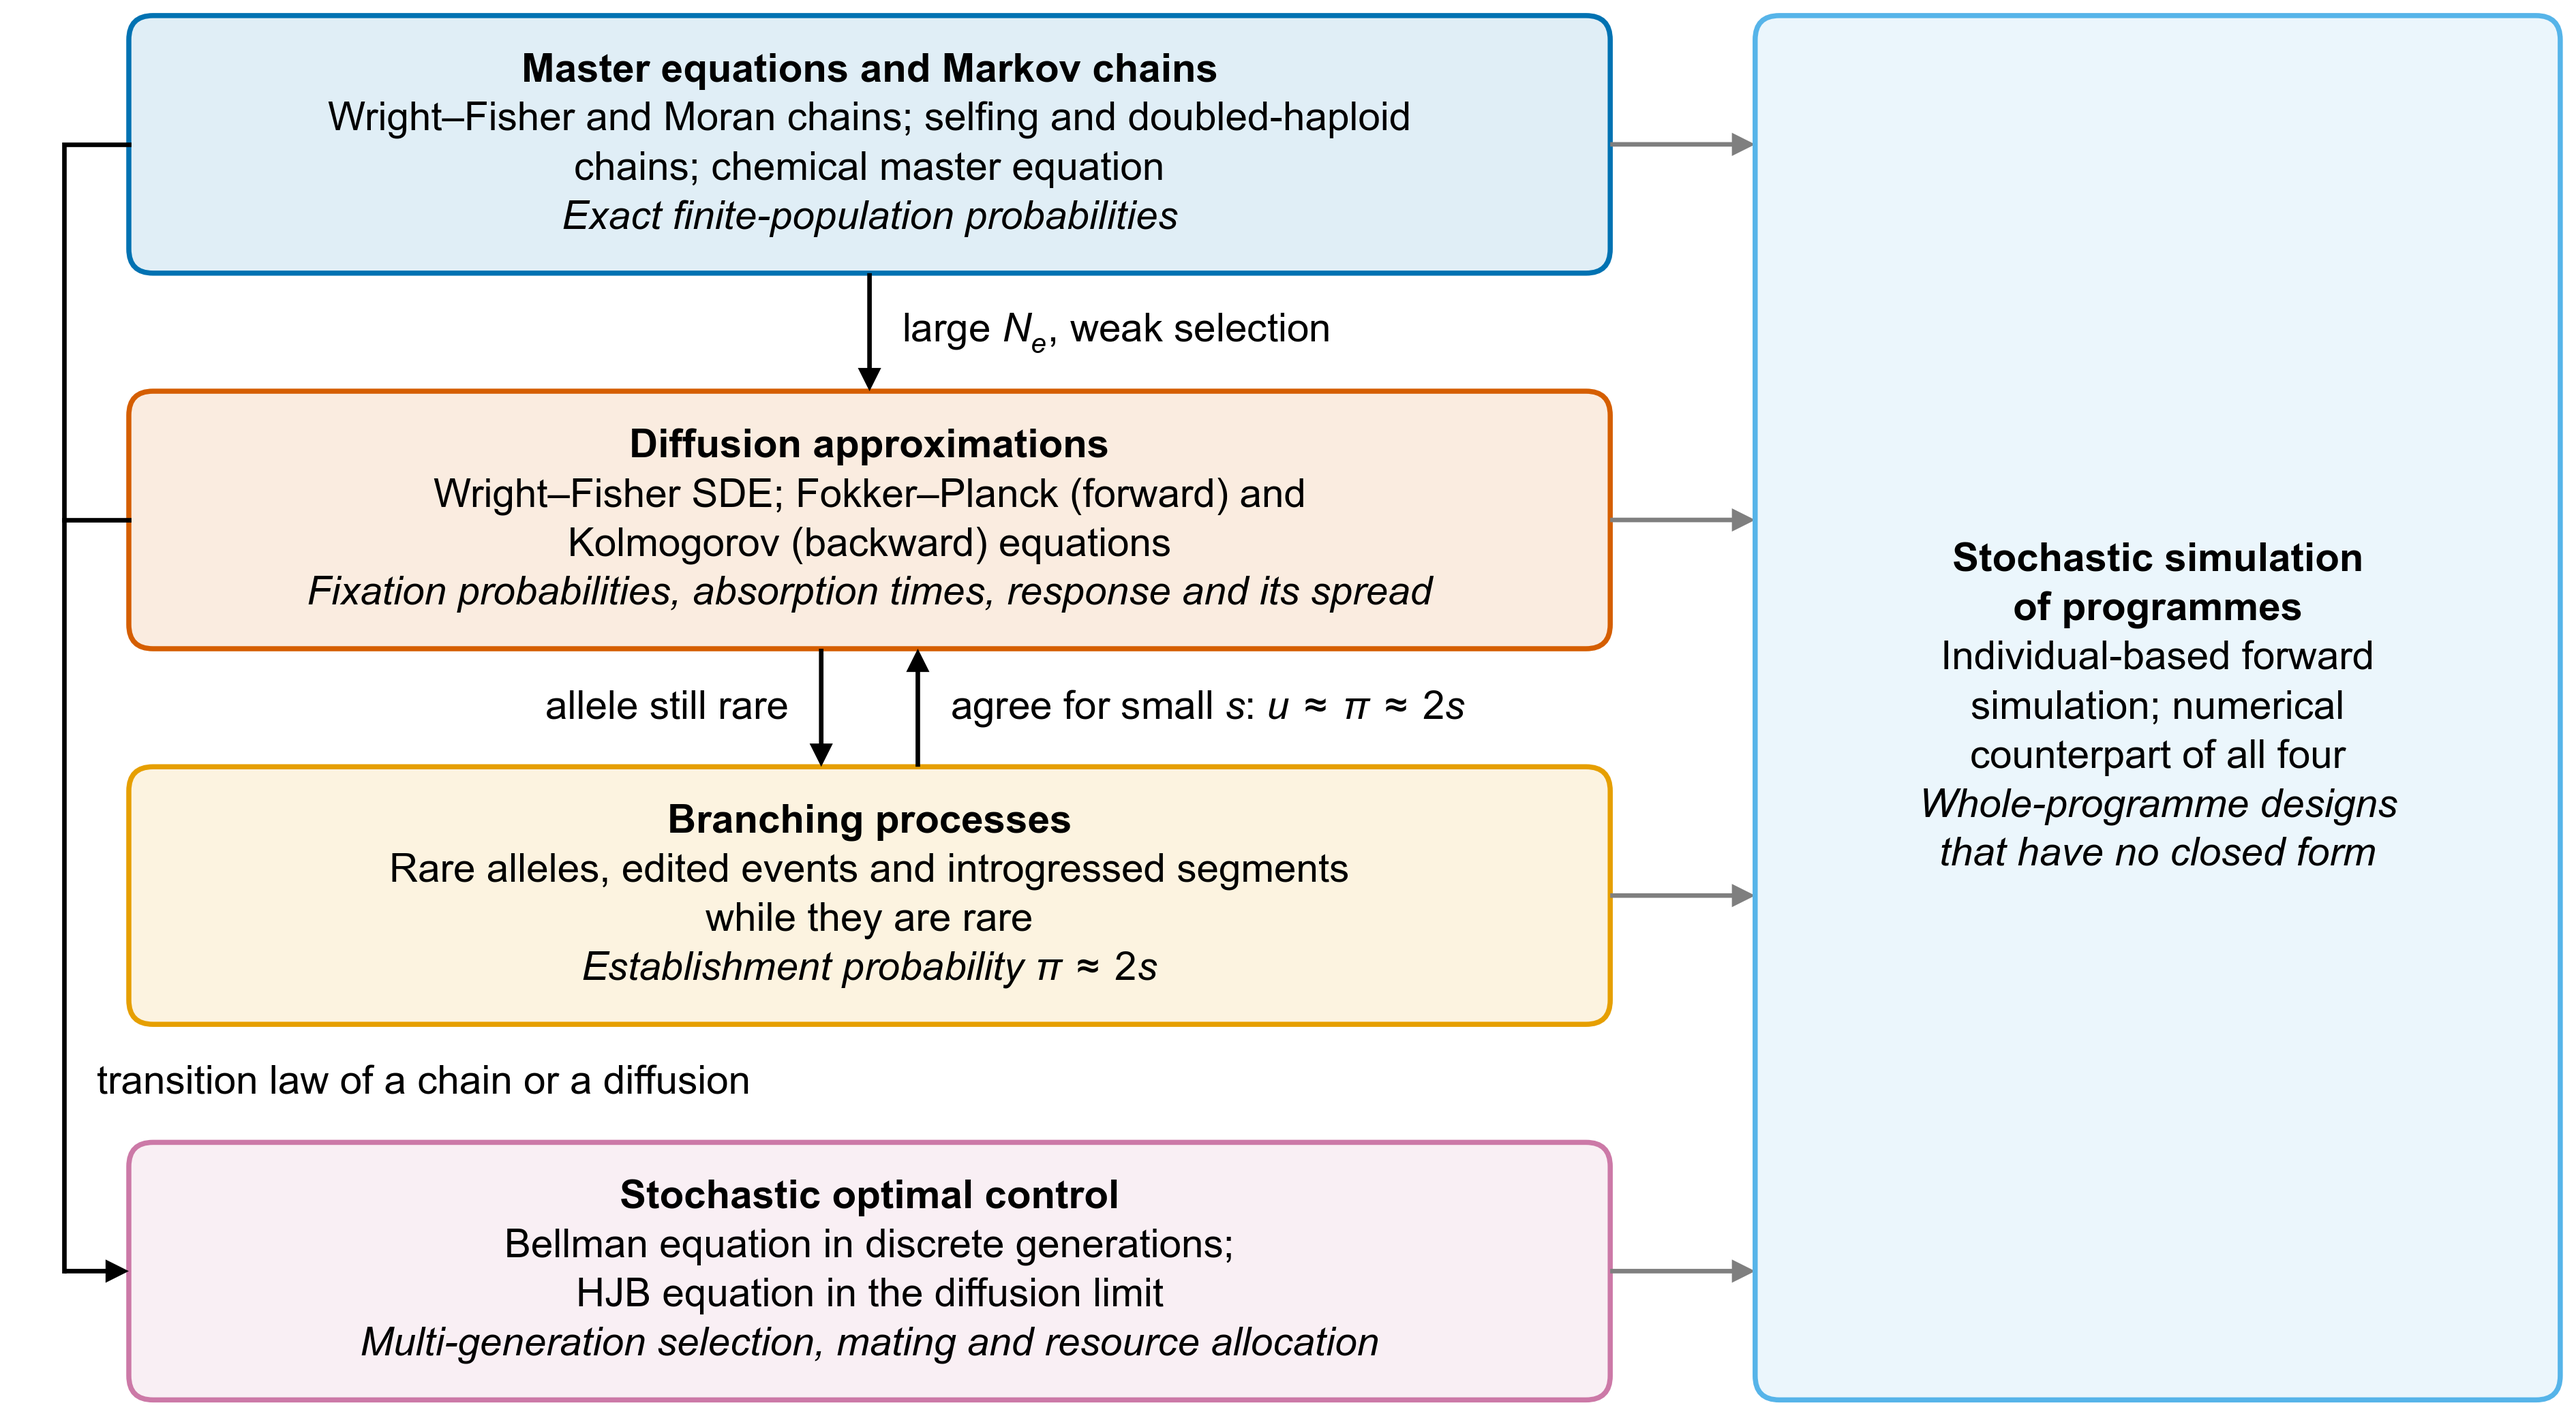
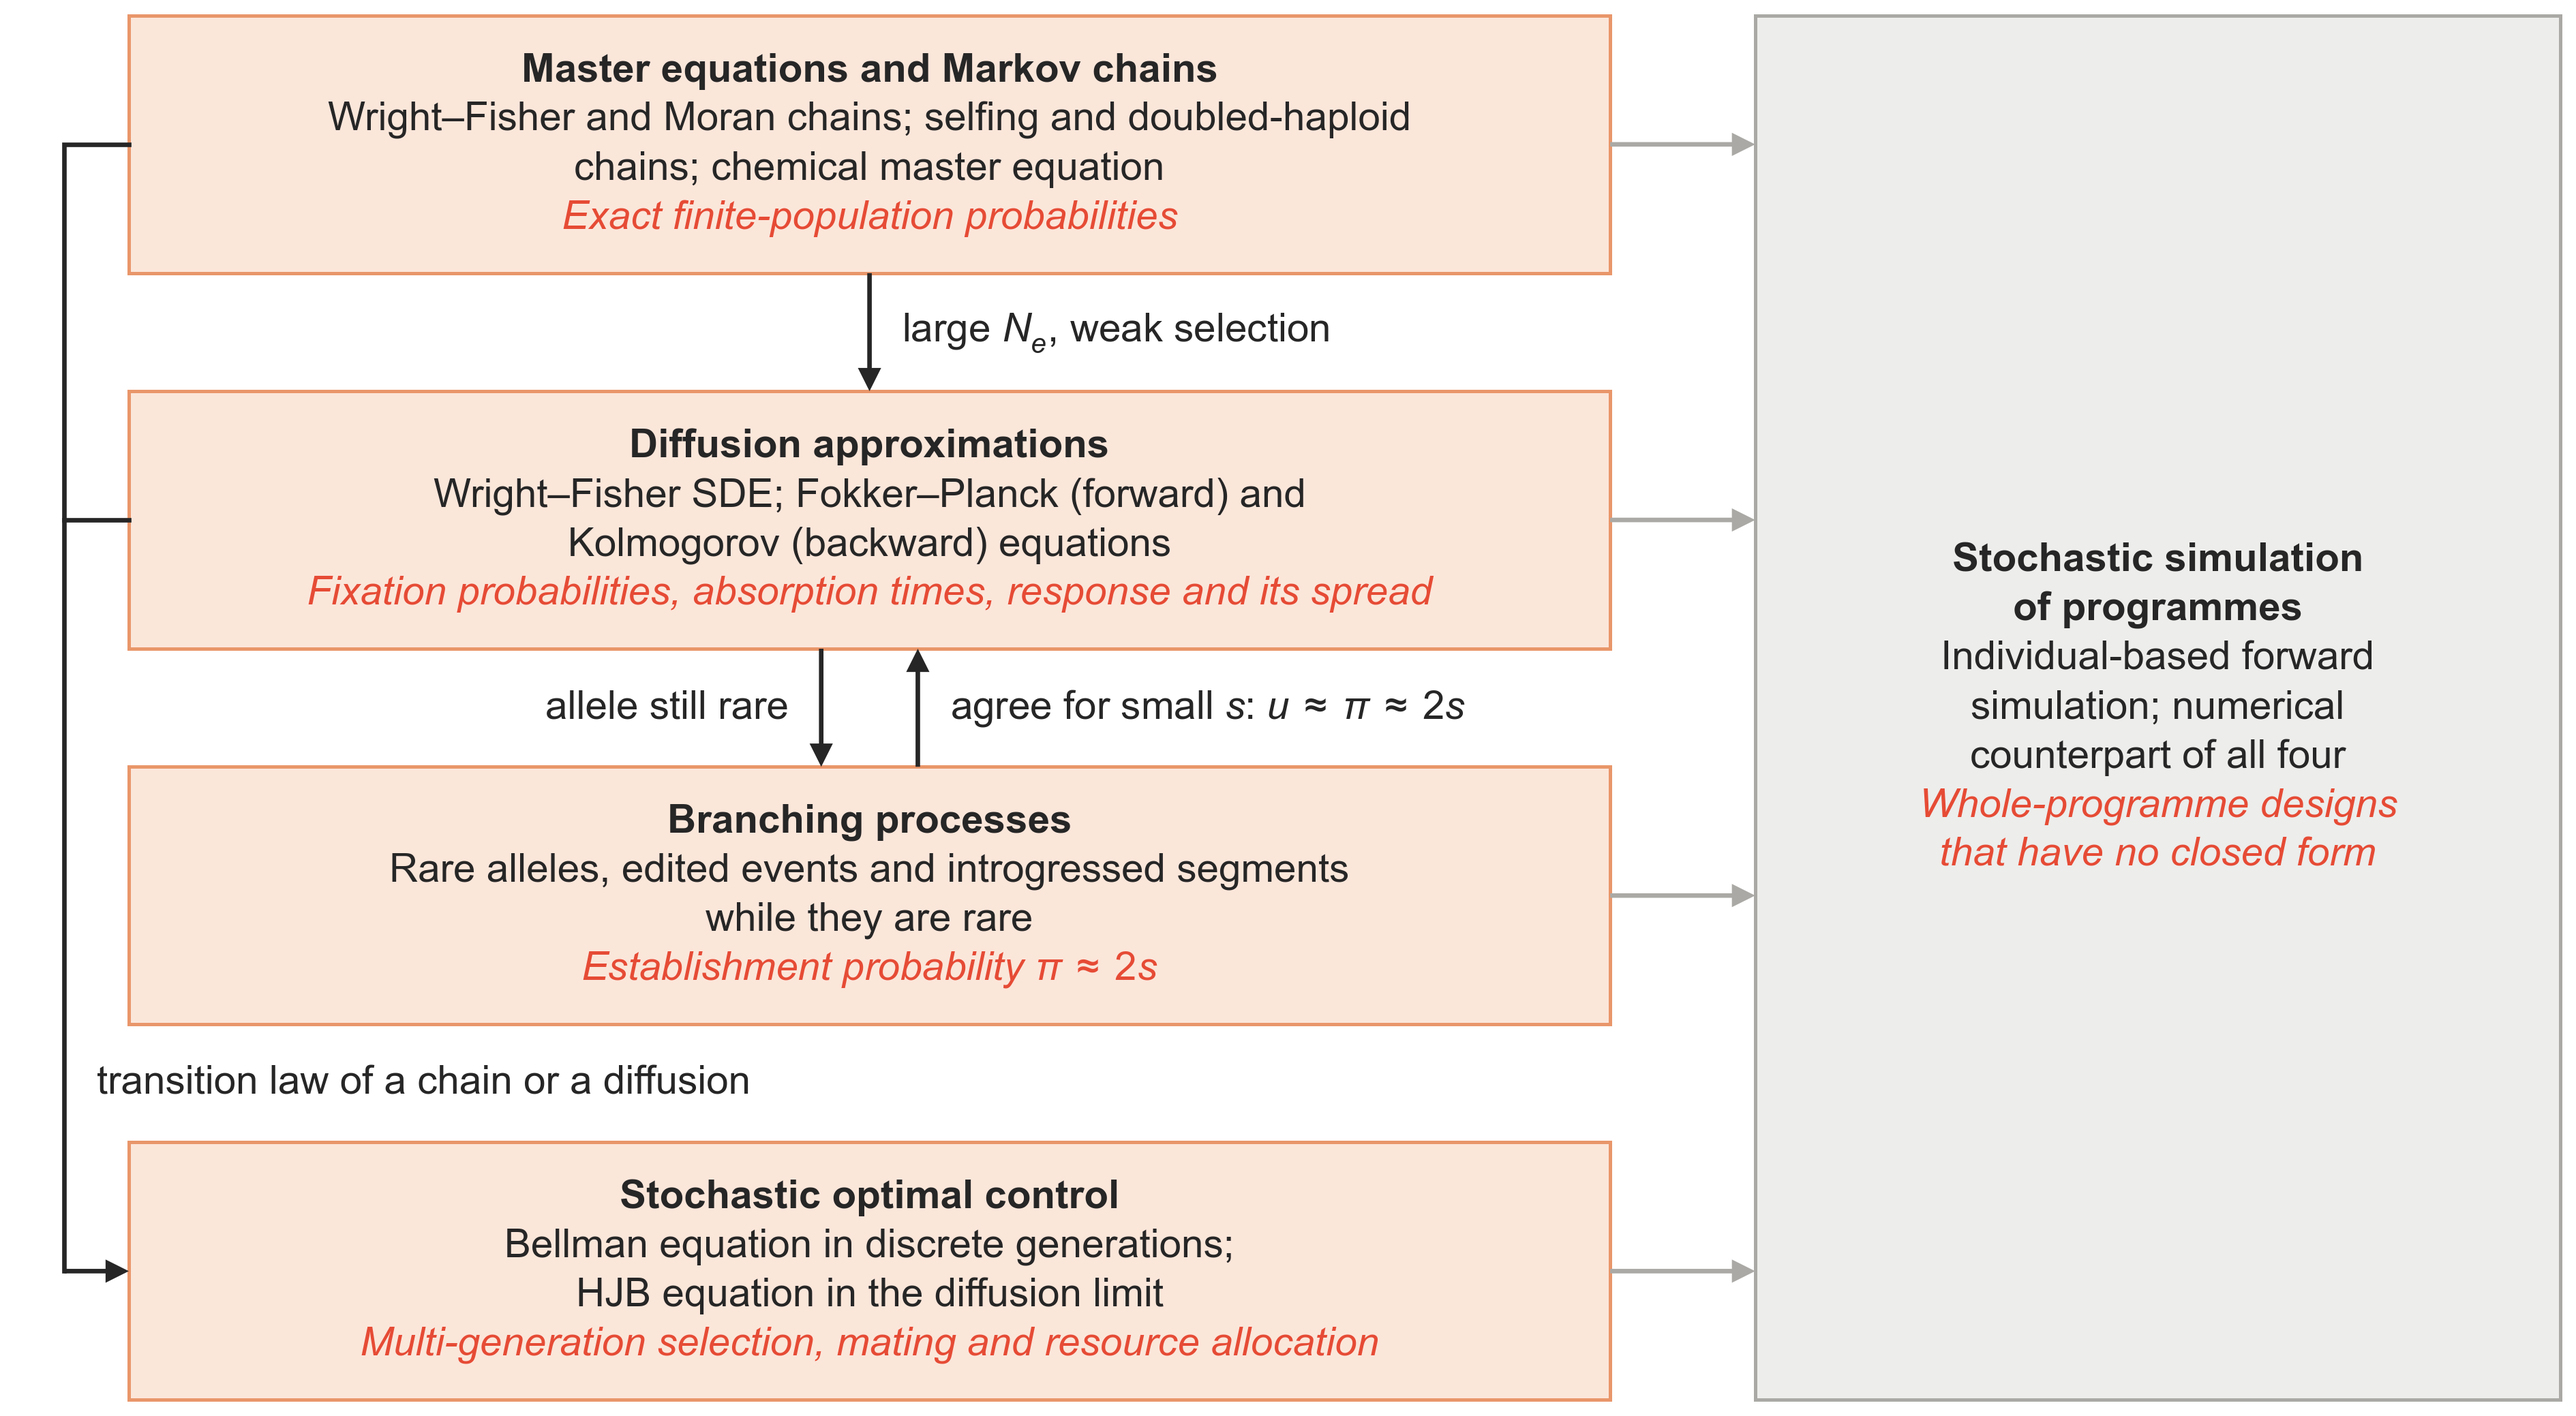
Figure 1: warm palette, square boxes

diff --git a/scripts/generate_figures.py b/scripts/generate_figures.py
@@ -279,27 +279,29 @@ def fig_wf_example():
 # R01_fig_family_map
 # ---------------------------------------------------------------------------------------------
 # Each family: title, equations or models (regular), what it answers in breeding (italic).
-# Colours follow the family colours of the evidence map (13_evidence_map.py, fig_style.CYCLE order):
-# master equations blue, diffusion vermilion, branching orange, control purple, simulation sky blue.
+# Warm Nature palette, colour by role: the four analytical families light peach with an orange rule, the
+# numerical counterpart (simulation) grey, the breeding answers in the accent red, text and links near-black.
+NAT = {"accent": "#E64B35", "edge": "#E9966A", "fill": "#FBE6DA",
+       "grey_edge": "#AAA9A5", "grey_fill": "#EDEDEB", "ink": "#262626"}
 FAMILIES = [
-    ("Master equations and Markov chains", OI["blue"],
+    ("Master equations and Markov chains", "family",
      ["Wright–Fisher and Moran chains; selfing and doubled-haploid",
       "chains; chemical master equation"],
      ["Exact finite-population probabilities"]),
-    ("Diffusion approximations", OI["vermilion"],
+    ("Diffusion approximations", "family",
      ["Wright–Fisher SDE; Fokker–Planck (forward) and",
       "Kolmogorov (backward) equations"],
      ["Fixation probabilities, absorption times, response and its spread"]),
-    ("Branching processes", OI["orange"],
+    ("Branching processes", "family",
      ["Rare alleles, edited events and introgressed segments",
       "while they are rare"],
      [r"Establishment probability $\pi\;\approx\;2s$"]),
-    ("Stochastic optimal control", OI["purple"],
+    ("Stochastic optimal control", "family",
      ["Bellman equation in discrete generations;",
       "HJB equation in the diffusion limit"],
      ["Multi-generation selection, mating and resource allocation"]),
 ]
-SIMULATION = (["Stochastic simulation", "of programmes"], OI["sky"],
+SIMULATION = (["Stochastic simulation", "of programmes"], "simulation",
               ["Individual-based forward", "simulation; numerical", "counterpart of all four"],
               ["Whole-programme designs", "that have no closed form"])
 
@@ -312,21 +314,24 @@ def _tint(colour, f=0.12):
     return (1 - f + f * r, 1 - f + f * g, 1 - f + f * b)
 
 
-def _box(ax, x, y, w, h, colour, title, body, answers):
-    """Rounded box with a bold title, regular body lines and italic answer lines, centred."""
-    ax.add_patch(FancyBboxPatch((x, y), w, h, boxstyle="round,pad=0,rounding_size=1.5",
-                                facecolor=_tint(colour), edgecolor=colour, linewidth=0.9))
+def _box(ax, x, y, w, h, role, title, body, answers):
+    """Square box with a bold title, regular body lines and italic answer lines (accent colour), centred.
+    role "family" (analytical) or "simulation" (numerical) sets the fill and edge."""
+    face, edge = ((NAT["fill"], NAT["edge"]) if role == "family" else (NAT["grey_fill"], NAT["grey_edge"]))
+    ax.add_patch(FancyBboxPatch((x, y), w, h, boxstyle="square,pad=0",
+                                facecolor=face, edgecolor=edge, linewidth=0.6))
     lines = [(t, "bold") for t in title] + [(t, "normal") for t in body] + [(t, "italic") for t in answers]
     n = len(lines)
     y_first = y + h / 2 + (n - 1) * LINE / 2
     texts = []
     for k, (txt, style) in enumerate(lines):
-        kw = {"fontweight": "bold"} if style == "bold" else ({"fontstyle": "italic"} if style == "italic" else {})
+        kw = ({"fontweight": "bold", "color": NAT["ink"]} if style == "bold" else
+              ({"fontstyle": "italic", "color": NAT["accent"]} if style == "italic" else {"color": NAT["ink"]}))
         texts.append(ax.text(x + w / 2, y_first - k * LINE, txt, ha="center", va="center", **kw))
     return texts
 
 
-def _arrow(ax, p0, p1, arrows, colour=INK):
+def _arrow(ax, p0, p1, arrows, colour=NAT["ink"]):
     """Straight arrow from p0 to p1 (mm); its end points are added to `arrows` for check_layout."""
     ax.add_patch(FancyArrowPatch(p0, p1, arrowstyle="-|>", mutation_scale=7, linewidth=0.8, color=colour,
                                  shrinkA=0, shrinkB=0, joinstyle="miter", capstyle="butt"))
@@ -412,7 +417,7 @@ def fig_family_map():
     xm = x0 + w / 2
     arrows = []
     # arrow labels upright; italic is kept for what each family answers
-    lab = {"ha": "left", "va": "center", "color": INK}
+    lab = {"ha": "left", "va": "center", "color": NAT["ink"]}
 
     # chains -> diffusion
     _arrow(ax, (xm, A[0]), (xm, B[1]), arrows)
@@ -425,8 +430,8 @@ def fig_family_map():
 
     # chains and diffusion -> control: a bus along the left edge
     xb = 4.0
-    ax.plot([x0, xb, xb], [yA, yA, yD], color=INK, lw=0.8, solid_joinstyle="miter")
-    ax.plot([x0, xb], [yB, yB], color=INK, lw=0.8)
+    ax.plot([x0, xb, xb], [yA, yA, yD], color=NAT["ink"], lw=0.8, solid_joinstyle="miter")
+    ax.plot([x0, xb], [yB, yB], color=NAT["ink"], lw=0.8)
     _arrow(ax, (xb, yD), (x0, yD), arrows)
     ax.text(xb + 2, (C[0] + D[1]) / 2, "transition law of a chain or a diffusion", **lab)
 
@@ -434,7 +439,7 @@ def fig_family_map():
     xs = x0 + w + 9.0
     ws = W - 1.0 - xs
     for ym in mids:
-        _arrow(ax, (x0 + w, ym), (xs, ym), arrows, colour=GREY)
+        _arrow(ax, (x0 + w, ym), (xs, ym), arrows, colour=NAT["grey_edge"])
     title, colour, body, answers = SIMULATION
     ys, hs = D[0], A[1] - D[0]
     for t in _box(ax, xs, ys, ws, hs, colour, title, body, answers):
